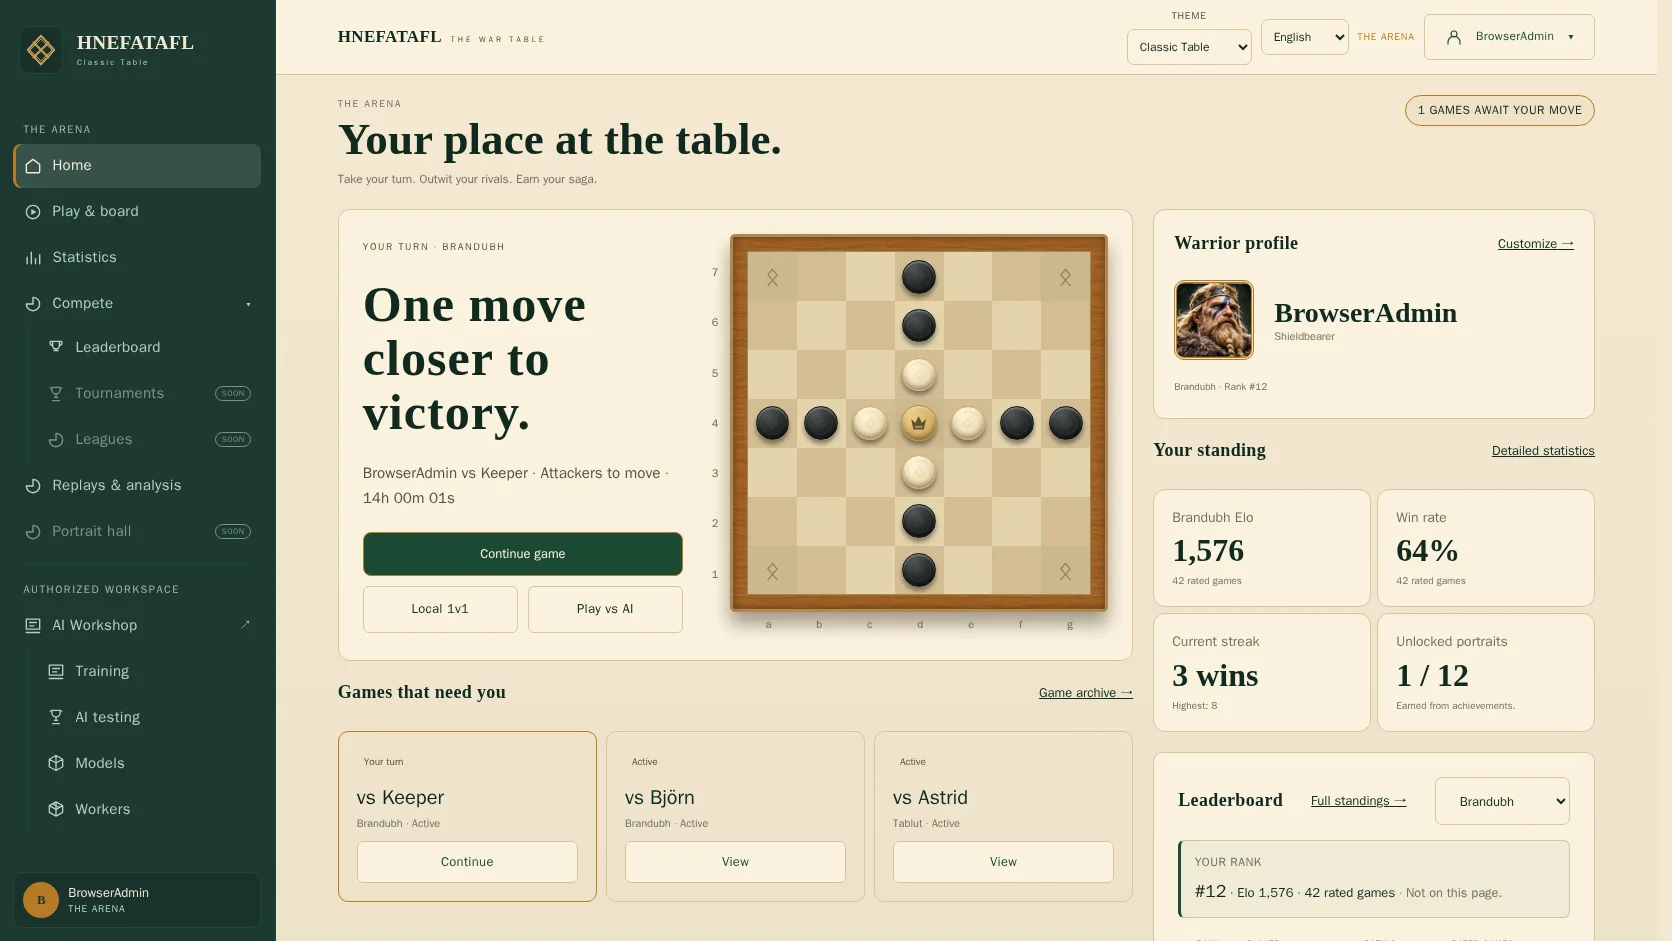
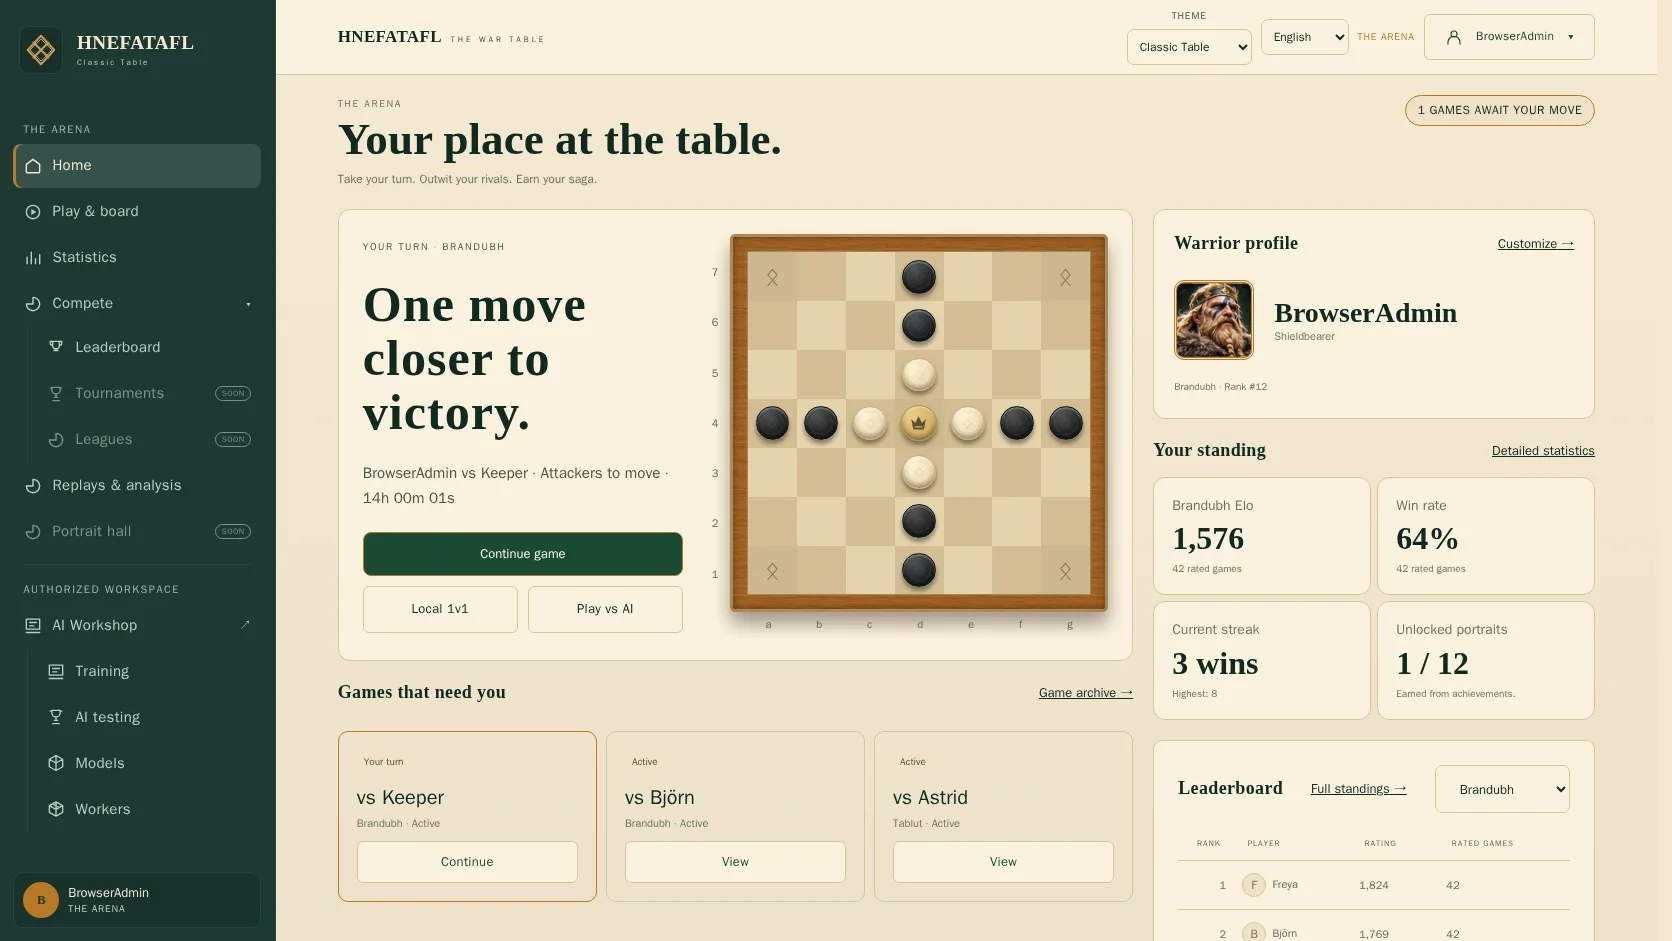
fix: finish transparent theme trim and desktop standings

diff --git a/frontend/src/arena-themes.css b/frontend/src/arena-themes.css
@@ -35,7 +35,7 @@
   --arena-display-weight: 600;
   --arena-display-tracking: 0.02em;
   --arena-texture: url('/assets/arena-v2/assets/textures/kings-table-parchment.webp');
-  --arena-band: url('/assets/arena-v2/assets/art/kings-table-knot-band.webp');
+  --arena-band: url('/assets/arena-v2/assets/icons/knot-band.svg');
   --arena-board-texture: var(--arena-grain-art);
   --arena-chart-policy: #9c5919;
   --arena-chart-value: #217894;
@@ -88,7 +88,7 @@
   --arena-texture: url('/assets/arena-v2/assets/textures/iron-ash-slate.webp');
   /* Iron & Ash keeps its restrained forged-slate identity, with the pack's own
    * knot band. The hero uses slate without any baked-in board imagery. */
-  --arena-band: url('/assets/arena-v2/assets/art/iron-ash-knot-band.webp');
+  --arena-band: none;
   --arena-board-texture: var(--arena-grain-art);
   --arena-chart-policy: #efb16b;
   --arena-chart-value: #81c7e5;
@@ -139,7 +139,7 @@
   --arena-display-weight: 500;
   --arena-display-tracking: 0.01em;
   --arena-texture: url('/assets/arena-v2/assets/textures/saga-hall-timber.webp');
-  --arena-band: url('/assets/arena-v2/assets/art/saga-hall-knot-band.webp');
+  --arena-band: url('/assets/arena-v2/assets/icons/knot-band.svg');
   --arena-board-texture: var(--arena-grain-art);
   --arena-chart-policy: #f0c184;
   --arena-chart-value: #8fd0e8;
@@ -328,7 +328,7 @@
   --arena-display-weight: 600;
   --arena-display-tracking: 0.02em;
   --arena-texture: url('/assets/arena-v2/assets/textures/kings-table-parchment.webp');
-  --arena-band: url('/assets/arena-v2/assets/art/kings-table-knot-band.webp');
+  --arena-band: url('/assets/arena-v2/assets/icons/knot-band.svg');
   /* Hero illustration: the theme's decorative board preview (512x512) as a
    * contained cover backdrop behind the hero copy, never a replacement for the
    * interactive board. `--arena-hero-scrim` is the theme-aware overlay that keeps
@@ -373,4 +373,13 @@
 /* Board materials follow the independently selected board palette. */
 :root[data-ui-theme][data-board-theme='slate'] {
   --arena-board-texture: url('/assets/arena-v2/assets/textures/iron-ash-slate.webp');
+}
+
+/* Transparent vector trim avoids white matte edges from the raster art studies. */
+:root[data-ui-theme='iron-ash'] .arena-topbar-band,
+:root[data-ui-theme='iron-ash'] .sidebar-band,
+:root[data-ui-theme='iron-ash'] .section-heading::after {
+  height: 1px;
+  background-image: none;
+  background-color: var(--arena-line);
 }

diff --git a/frontend/tests/arena-themes.spec.ts b/frontend/tests/arena-themes.spec.ts
@@ -8,7 +8,7 @@ const themes = [
   {
     id: 'classic-table',
     accent: 'rgb(27, 74, 52)',
-    line: 'rgb(216, 196, 156)',
+    cardBorder: 'rgb(216, 196, 156)',
     raised: 'rgb(240, 226, 198)',
     copy: 'rgb(74, 85, 72)',
     colorScheme: 'light',
@@ -16,7 +16,7 @@ const themes = [
   {
     id: 'kings-table',
     accent: 'rgb(27, 74, 52)',
-    line: 'rgb(216, 196, 156)',
+    cardBorder: 'rgb(216, 196, 156)',
     raised: 'rgb(240, 226, 198)',
     copy: 'rgb(74, 85, 72)',
     colorScheme: 'light',
@@ -24,7 +24,7 @@ const themes = [
   {
     id: 'iron-ash',
     accent: 'rgb(214, 165, 80)',
-    line: 'rgb(58, 69, 75)',
+    cardBorder: 'rgb(58, 69, 75)',
     raised: 'rgb(35, 43, 47)',
     copy: 'rgb(185, 194, 198)',
     colorScheme: 'dark',
@@ -32,7 +32,7 @@ const themes = [
   {
     id: 'saga-hall',
     accent: 'rgb(232, 189, 114)',
-    line: 'rgb(107, 68, 41)',
+    cardBorder: 'rgb(214, 160, 68)',
     raised: 'rgb(67, 37, 26)',
     copy: 'rgb(216, 193, 156)',
     colorScheme: 'dark',
@@ -191,11 +191,20 @@ for (const theme of themes) {
       // the colour is asserted through a retrying locator assertion.
       const primary = page.locator('.arena-hero .arena-primary-action').first();
       await expect(primary).toHaveCSS('background-color', theme.accent);
-      // The dashboard standing cards must read the theme's own line token, never
+      const primaryColors = await primary.evaluate((node) => {
+        const style = getComputedStyle(node);
+        return { color: style.color, background: style.backgroundColor };
+      });
+      expect(contrastRatio(primaryColors.color, primaryColors.background)).toBeGreaterThanOrEqual(
+        4.5,
+      );
+      // The dashboard standing cards must read the theme's own frame color, never
       // a hard-coded light fallback that would break the dark named themes.
       const card = page.locator('.dashboard-stat').first();
       await expect(card).toBeVisible();
-      expect(await card.evaluate((node) => getComputedStyle(node).borderTopColor)).toBe(theme.line);
+      expect(await card.evaluate((node) => getComputedStyle(node).borderTopColor)).toBe(
+        theme.cardBorder,
+      );
       expect(await root.evaluate((node) => getComputedStyle(node).colorScheme)).toContain(
         theme.colorScheme,
       );

diff --git a/frontend/src/Leaderboard.tsx b/frontend/src/Leaderboard.tsx
@@ -228,7 +228,7 @@ export default function Leaderboard({
           </button>
         </p>
       )}
-      {data && <YourRank data={data} onPage={onPage} />}
+      {data && !compact && <YourRank data={data} onPage={onPage} />}
       {data && total === 0 && <p>{t('No rated games in this pool yet.')}</p>}
       {data && total > 0 && (
         <>
@@ -254,6 +254,7 @@ export default function Leaderboard({
           )}
         </>
       )}
+      {data && compact && <YourRank data={data} onPage={onPage} />}
       {data && !compact && total > 0 && (
         <p className="leaderboard-total">
           {t('{count} ranked players in this pool.', { count: number.format(total) })}

diff --git a/frontend/src/personalDashboard.css b/frontend/src/personalDashboard.css
@@ -930,3 +930,20 @@ main:has(.arena-dashboard) {
   background: radial-gradient(circle at 35% 25%, #505454, #232727 55%, #111515);
   border-color: #0e1414;
 }
+@media (min-width: 1101px) {
+  /* Keep the standings readable within the reference composition without clipping. */
+  .dashboard-stats {
+    gap: 8px;
+  }
+  .dashboard-stats > .section-heading {
+    margin-bottom: 0;
+  }
+  .arena-dashboard .leaderboard-compact .section-heading {
+    margin-bottom: 8px;
+  }
+  .arena-dashboard .leaderboard-compact .leaderboard-you {
+    padding: 8px;
+    gap: 4px;
+    font-size: 0.75rem;
+  }
+}

diff --git a/docs/validation/arena-theme-completion.md b/docs/validation/arena-theme-completion.md
@@ -23,6 +23,9 @@ Short desktop windows scroll normally rather than shrinking the dashboard to fit
 Long game lists and compact standings no longer clip their rows into a tiny
 scrolling region. Mobile retains the compact navigation and stacked layout.
 
+The transparent SVG interlace trim replaces the white-matted raster band studies;
+Iron & Ash uses restrained metal hairlines instead.
+
 ## Desktop captures
 
 These 1672 × 941 browser captures use isolated Brandubh fixtures and the
